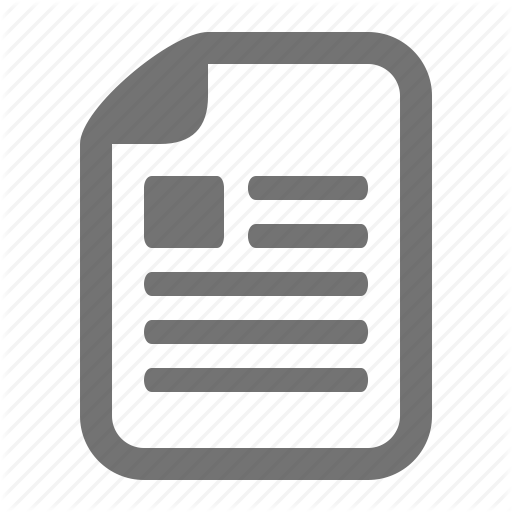
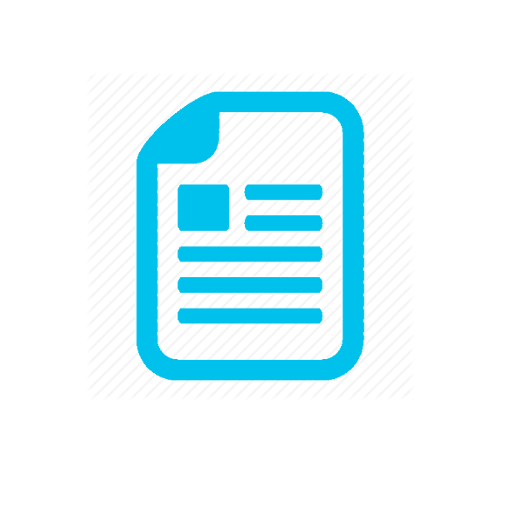
crear update

diff --git a/kuates/css/crear.css b/kuates/css/crear.css
@@ -13,8 +13,8 @@ html,body,h1,h2,h3,h4 {font-family:"Lato", sans-serif}
 }
 
 #navLine hr{
-	//border:1px solid rgba(0,0,0,0.1);
-	border:1px solid rgba(116,219,83,0.3);
+	border:1px solid rgba(0,0,0,0.1);
+	//border:1px solid rgba(116,219,83,0.3);
 	width:12vw;
 	margin-left: -10px;
 	margin-right: -10px;
@@ -29,9 +29,9 @@ html,body,h1,h2,h3,h4 {font-family:"Lato", sans-serif}
 }
 
 .w3-content .w3-circle{
-	//border:1px solid rgba(0,0,0,0.2);
-	border:1px solid rgba(116,219,83,0.3);
-	background-color: rgba(116,219,83,0.3);
+	border:1px solid rgba(0,0,0,0.0);
+	//border:1px solid rgba(116,219,83,0.3);
+	background-color: rgba(0,0,0,0.1);
 	color:white;
 	width:28px;
 	height:28px;
@@ -53,9 +53,9 @@ html,body,h1,h2,h3,h4 {font-family:"Lato", sans-serif}
 	padding: 0px 10px 0px 10px;
 	border-width: 0px 0px 4px 0px;
 	border-style: solid;
-	border-color:#001782;
+	border-color:#bbb;
 	width:400px;
-	color: rgb(116, 219, 83);
+	color: #f19800;
 	font-size: 24px;
 	text-align: center;
 }
@@ -72,7 +72,7 @@ html,body,h1,h2,h3,h4 {font-family:"Lato", sans-serif}
 	margin-top: -25px;color: white;font-size:11px;
 }
 .categoria{
-	background-color: #01c944;
+	background-color: #00c1ec;
 	//border-radius: 15px;
 	padding: 12px;
 }
@@ -107,7 +107,7 @@ html,body,h1,h2,h3,h4 {font-family:"Lato", sans-serif}
 #portadaCont{
 	display:inline-flex;
 	color: #001782;
-	background-color: rgb(116,219,83);
+	background-color: #bbb;
 	width: 80%;
 	height: 60px;
 	max-width: 480px;
@@ -123,7 +123,8 @@ html,body,h1,h2,h3,h4 {font-family:"Lato", sans-serif}
 	margin-left: 15px;
 	padding: 5px 10px 5px 10px;
 	width: 60%;
-	font-size: 1.2vw;
+	font-size: 1vw;
+	font-family: Vagbold;
 }
 #portadaInput label{
 	background-color:#001782;
@@ -139,7 +140,7 @@ html,body,h1,h2,h3,h4 {font-family:"Lato", sans-serif}
 }
 
 .w3-closebtn.w3-circle.thumbDelete{
-	background-color:#001782;	
+	background-color:#00c1ec;	
 	width: 10px;
 	height: 10px;
 	font-size: 10px;
@@ -152,11 +153,11 @@ html,body,h1,h2,h3,h4 {font-family:"Lato", sans-serif}
 }
 #moreFiles{
 	color: white;
-	background-color: #001782;
-	width: 200px;
+	background-color: #00d59b;
+	width: 100%;
 	margin: auto;
 	font-family: Vagbold;
-	padding-top: 5px;
-	padding-bottom: 5px;
-	margin-top:-20px;
+	padding-top: 10px;
+	padding-bottom: 10px;
+	margin-top: -20px;
 }

diff --git a/kuates/css/thumbnail-slider.css b/kuates/css/thumbnail-slider.css
@@ -4,9 +4,9 @@
     margin:0 auto; /*center-aligned*/
     width:100%;/*width:400px;*/
     max-width:535px;
-    padding:25px 30px 20px 30px;
-    background-color:white;
-    border: solid 3px rgb(116,219,83);
+    padding:20px 30px 20px 30px;
+    background-color:#eee;
+    border: solid 1px rgba(0,0,0,0.1);
     //box-shadow: 0 2px 6px rgba(0,0,0,0.3);
     //box-sizing:border-box;
     position:relative;
@@ -41,7 +41,7 @@
 #thumbnail-slider ul li {
     display:inline-block;
     *display:inline!important; /*IE7 hack*/
-    border:3px solid #001782;
+    //border:3px solid #001782;
     //border-radius:15px;
     margin:0;
     margin-right:15px; /* Spacing between thumbs*/
@@ -81,12 +81,12 @@
     padding-bottom: 27px;
     padding-right: 5px;
     right: -18px;
-    top: 60px;
+    top: 130px;
     position: absolute;
     z-index: 10;
     color: white;
     border: 0px;
-    background-color: #001782;
+    background-color: #00c1ec;
 }
 
 #scrollLeft{
@@ -94,12 +94,12 @@
     padding-bottom: 27px;
     padding-left: 5px;
     left: -18px;
-    top: 60px;
+    top: 130px;
     position: absolute;
     z-index: 10;
     color: white;
     border: 0px;
-    background-color: #001782;
+    background-color: #00c1ec;
 }
 
 #thumbnail-slider ul li.active {
